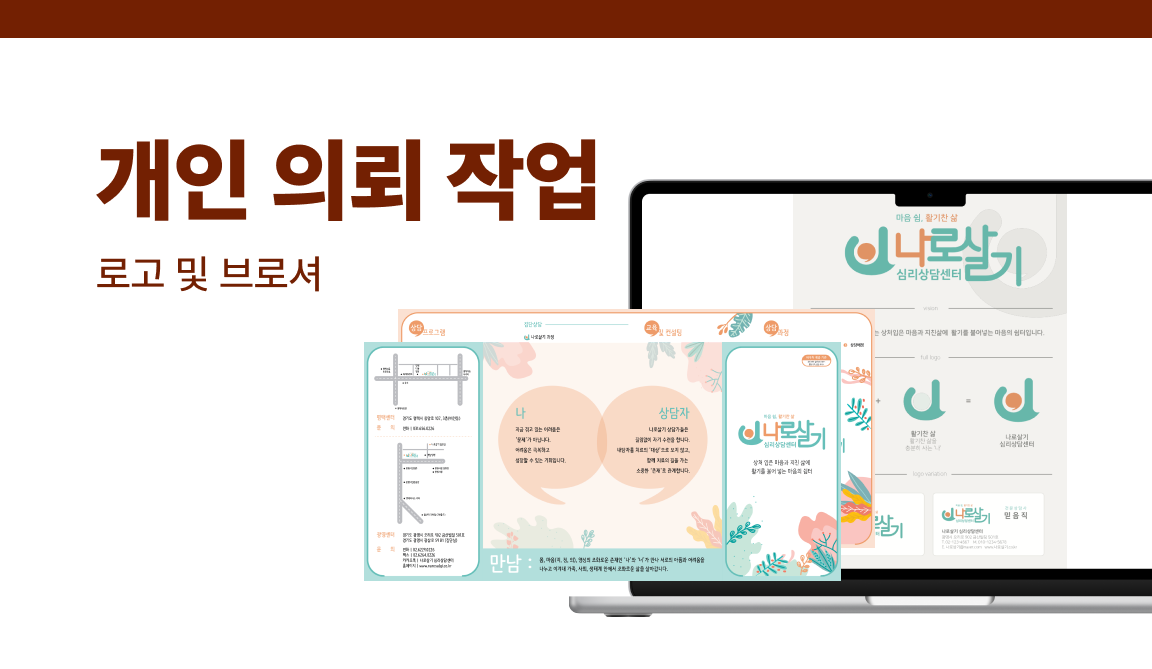
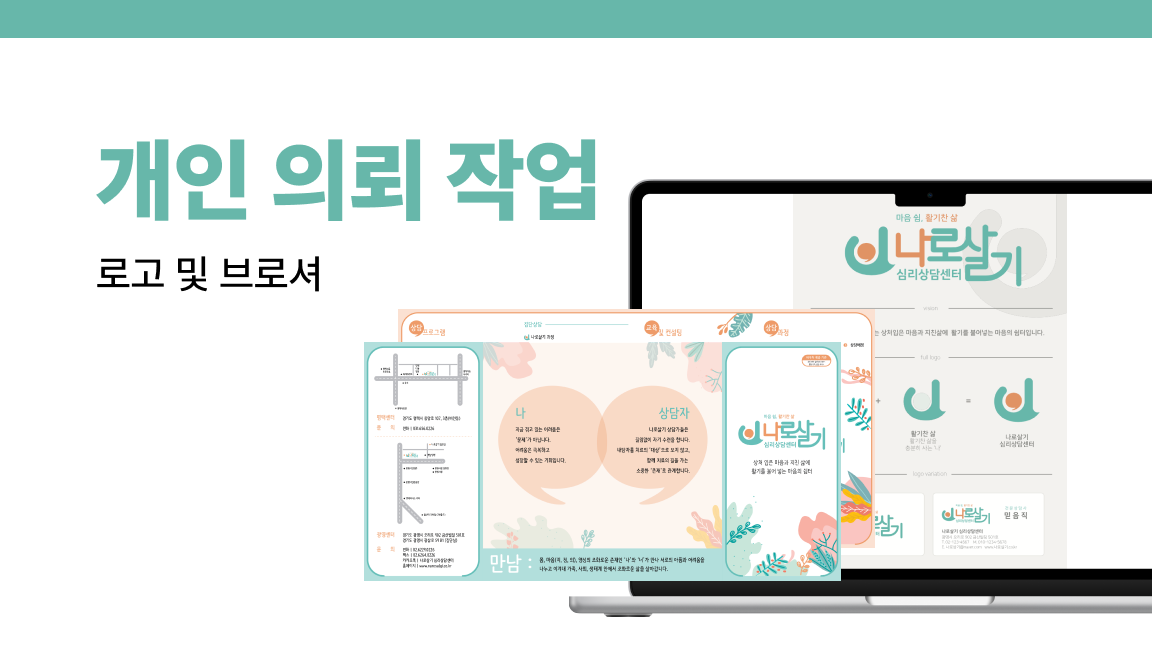
Initial commit

Changed region(s): [[0.0, 0.0, 1.0, 0.0598], [0.0625, 0.2093, 0.5312, 0.3288], [0.0625, 0.3886, 0.2812, 0.4484]]

diff --git a/css/style.css b/css/style.css
@@ -5,40 +5,40 @@
 :root {
   /* 새로운 고급 컬러 팔레트 */
   --ink: #E9EDF2;           /* 메인 텍스트 - 가장 밝은 색 */
-  --muted: #97A6A2;         /* 서브 텍스트 - 중간 밝은 색 */
-  --bg: #401F0D;            /* 메인 배경 - 어두운 색 */
+  --muted: #231e20;         /* 서브 텍스트 - 중간 밝은 색 */
+  --bg: #107243;            /* 메인 배경 - 어두운 색 */
   --card: #59574F;          /* 카드 배경 - 중간 색 */
   --round: 18px;
   
   /* 헤더 & 보더 */
-  --header: rgba(64, 31, 13, 0.9);
+  --header: rgba(255, 255, 255, 0.3);
   --border: rgba(151, 166, 162, 0.2);
   
   /* 액센트 & 포인트 컬러 */
-  --accent: #401F0D;        /* 메인 액센트 - 가장 어두운 색 */
-  --accent1: #401F0D;
-  --accent2: #401F0D;
-  --primary-color: #401F0D;
-  --primary-color-full: #401F0D;
+  --accent: #107243;        /* 메인 액센트 - 가장 어두운 색 */
+  --accent1: #107243;
+  --accent2: #107243;
+  --primary-color: #107243;
+  --primary-color-full: #107243;
   
   /* 포인트 컬러 - 기존 컬러 팔레트 내에서 변형 */
-  --accent3: #97A6A2;
+  --accent3: #231e20;
   --accent4: #59574F;
-  --point-color1: #97A6A2;
+  --point-color1: #231e20;
   --point-color2: #E9EDF2;
   --point-color3: #59574F;
-  --point-color4: #401F0D;
+  --point-color4: #107243;
   
   /* 배경 그라데이션용 컬러 */
-  --bg-Cdeep-color1: #401F0D;
+  --bg-Cdeep-color1: #107243;
   --bg-Cdeep-color2: #59574F;
-  --bg-Cdeep-color3: #97A6A2;
+  --bg-Cdeep-color3: #231e20;
   --bg-Cdeep-color4: #E9EDF2;
   
   /* 메인 & 서브 컬러 */
   --main-color: #59574F;
-  --main-color-deep: #401F0D;
-  --sub-color1: #97A6A2;
+  --main-color-deep: #107243;
+  --sub-color1: #231e20;
   --sub-color2: #E9EDF2;
   
   /* 투명도 컬러 */
@@ -124,7 +124,8 @@ section {
   left: 0;
   width: 100%;
   z-index: 9999;
-  backdrop-filter: saturate(120%) blur(10px);
+  backdrop-filter: saturate(140%) blur(16px);
+  -webkit-backdrop-filter: saturate(140%) blur(16px);
   background: var(--header);
   /* border-bottom: 1px solid var(--border); */
   transform: translateY(-100%);
@@ -157,19 +158,23 @@ h1.brand_logo img {
 }
 
 .primary_nav a {
-  opacity: .85;
+  color: var(--bg);
+  opacity: .6;
   padding: 6px 10px;
   cursor: pointer;
   display: flex;
+  transition: all 0.3s ease;
 }
 
 .primary_nav a:hover {
-  color: var(--ink);
+  opacity: .85;
+  color: var(--bg);
 }
 
 .primary_nav a.is_active {
-  background: var(--ink);
-  color: var(--bg);
+  background: var(--bg);
+  color: var(--ink);
+  opacity: 1;
   font-weight: 600;
   border-radius: 50px;
   padding-inline: 20px;
@@ -250,12 +255,13 @@ h1.brand_logo img {
   margin: 0 0 12px;
   opacity: 0;
   transform: translateY(20px);
-  letter-spacing: -.02em
+  letter-spacing: -.02em;
+  text-shadow: 0 0 4px rgba(0, 0, 0, 0.1);
 }
 
 .hero_sub {
   margin: 0 0 24px;
-  color: var(--muted);
+  color: var(--ink);
   opacity: 0;
   transform: translateY(16px)
 }
@@ -289,16 +295,14 @@ h2 {
   display: flex;
   justify-content: space-between;
   align-items: center;
-  background: linear-gradient(to bottom, 
-    #E9EDF2, 
-    rgba(136, 140, 135, 0.7));
+  background: #eeeeee;
   position: relative;
   flex-direction: column;
   padding-block: 10vh;
 }
 
 .marquee_section h2 {
-  color: var(--ink);
+  color: var(--muted);
   position: relative;
   z-index: 1;
 }
@@ -332,7 +336,7 @@ h2 {
 }
 
 .marquee_item {
-  color: var(--sub-color1);
+  color: #c4bebe;
   opacity: .9;
   font-weight: 200;
 }
@@ -362,7 +366,7 @@ h2 {
   flex-direction: column;
   justify-content: center;
   cursor: pointer;
-  background: #EEE;
+  background: #fff;
   box-shadow: 0 4px 20px rgba(0, 0, 0, 0.15);
   overflow: hidden;
   /* 반사광이 밖으로 안 새게 */
@@ -384,7 +388,7 @@ h2 {
 }
 
 .feature_card:nth-child(1) {
-  background: #EEE;
+  background: #fff;
 }
 
 .feature_card:nth-child(1)::before {
@@ -392,7 +396,7 @@ h2 {
 }
 
 .feature_card:nth-child(2) {
-  background: #EEE;
+  background: #fff;
 }
 
 .feature_card:nth-child(2)::before {
@@ -400,7 +404,7 @@ h2 {
 }
 
 .feature_card:nth-child(3) {
-  background: #EEE;
+  background: #fff;
 }
 
 .feature_card:nth-child(3)::before {
@@ -500,7 +504,7 @@ h2 {
 }
 
 .info_section .card {
-  background: linear-gradient(135deg, #E9EDF2, #97A6A2);
+  background: #fff;
   border-radius: 24px;
   padding: 48px 40px;
   box-shadow: 0 8px 32px rgba(0, 0, 0, 0.12);
@@ -560,7 +564,7 @@ h2 {
 }
 
 .info_section .card h4 {
-  color: #401F0D;
+  color: #107243;
   font-size: 1.75rem;
   font-weight: 700;
   margin: 0;
@@ -594,7 +598,7 @@ h2 {
   align-items: center;
   padding: 16px 32px;
   background: rgba(64, 31, 13, 0.1);
-  color: #401F0D;
+  color: #107243;
   text-decoration: none;
   border-radius: 28px;
   font-size: 1.05rem;
@@ -604,7 +608,7 @@ h2 {
 }
 
 .info_section .link-go a:hover {
-  background: #401F0D;
+  background: #107243;
   color: #E9EDF2;
   transform: translateY(-2px);
   box-shadow: 0 4px 12px rgba(64, 31, 13, 0.3);
@@ -624,8 +628,10 @@ h2 {
 
 /* ===== Pin + Floating Photos ===== */
 .pin_scene {
-  height: 150vh;
-  overflow: hidden
+  height: 120vh;
+  overflow: hidden;
+  background: #eee;
+  padding: 0;
 }
 
 .pin_layer {
@@ -633,17 +639,21 @@ h2 {
   width: 100%;
   height: 100%;
   overflow: hidden;
+  background: #eee;
 }
 
 .pin_bg {
   position: absolute;
-  inset: -2px;
-  /* 1~2px 확장해서 경계 숨김 */
+  inset: 0;
+  width: 100%;
+  height: 100%;
   background-size: cover;
   background-position: center;
+  background-repeat: no-repeat;
   will-change: transform, filter;
   transform: translateZ(0);
-  /* 티어링 줄이기 */
+  filter: blur(8px);
+  opacity: 0.5;
 }
 
 .pin_overlay {
@@ -672,14 +682,14 @@ h2 {
 
 .pin_copy p {
   margin: 0;
-  color: var(--muted)
+  color: #fff;
 }
 
 /* 중앙에 스택 스테이지 만들기 */
 .float_wrap {
   position: absolute;
   inset: 0;
-  top: 20%;
+  top: 35%;
   display: grid;
   place-items: center;
   pointer-events: none;
@@ -799,7 +809,7 @@ h2 {
   position: relative;
   height: 100vh;
   overflow: hidden;
-  background: var(--card);
+  background: #eee;
 }
 
 .track {
@@ -852,14 +862,17 @@ h2 {
   font-size: 1.5rem;
   font-weight: 600;
   opacity: 0;
-  transition: opacity 0.3s ease;
+  transition: all 0.3s ease;
   z-index: 2;
   text-align: center;
   white-space: nowrap;
+  padding: 16px 32px;
+  border-radius: 50px;
+  border: 1px solid #fff;
 }
 
 .h_item:hover::before {
-  background: rgba(0, 0, 0, 0.75);
+  background: rgba(0, 0, 0, 0.85);
 }
 
 .h_item:hover::after {
@@ -893,7 +906,7 @@ h2 {
 /* ===== Stats (counters) ===== */
 .stats_section {
   text-align: center;
-  background: var(--card);
+  background: #107243;
 }
 
 .stats_grid {
@@ -920,7 +933,7 @@ h2 {
 /* ===== CTA ===== */
 .cta_section {
   text-align: center;
-  background: var(--card);
+  background: #107243;
 }
 
 .cta_section h2 {
@@ -939,8 +952,8 @@ h2 {
   align-items: center;
   padding: 14px 20px;
   border-radius: 999px;
-  background: var(--accent);
-  color: var(--ink);
+  background: #fff;
+  color: #107243;
   font-weight: 800;
   transform: translateY(20px);
   opacity: 0
@@ -949,6 +962,11 @@ h2 {
 .magnet_zone {
   display: inline-block;
   padding-bottom: 100px;
+  transition: filter 0.3s ease;
+}
+
+.magnet_zone:hover {
+  filter: saturate(1.5) brightness(1.1);
 }
 
 @media(max-width:1024px) {

diff --git a/index.html b/index.html
@@ -118,28 +118,28 @@
 
             <div class="projects">
                 <div class="card">
-                    <h4>🔍 Project | Studio Dragon Redesign</h4>
+                    <h4>Project | Studio Dragon Redesign</h4>
                     <p>스튜디오 드래곤 팀 프로젝트에서 디자인 팀장을 맡아 스타일 가이드를 총괄하고, 메인 페이지 디자인을 담당했습니다.</p>
                     <div class="link-go">
-                        <a href="#" target="_blank">랜딩 페이지</a>
-                        <a href="https://www.figma.com/deck/E1m9UD9QFX8vzMYbFf6CDW/-%ED%8C%80%ED%94%8C1-2%EC%A1%B0--%EA%B2%B0%EA%B3%BC%EB%B3%B4%EA%B3%A0%EC%84%9C_studiodragon-%EC%8A%A4%ED%8A%9C%EB%94%94%EC%98%A4%EB%93%9C%EB%9E%98%EA%B3%A4---%EB%B3%B5%EC%82%AC-?node-id=1-42&viewport=-164%2C-159%2C0.75&t=WzeZezoGppLXpgtR-1&scaling=min-zoom&content-scaling=fixed&page-id=0%3A1" target="_blank">프로젝트 기획서</a>
+                        <!-- <a href="#" target="_blank">랜딩 페이지</a> -->
+                        <a href="https://www.figma.com/deck/E1m9UD9QFX8vzMYbFf6CDW/-%ED%8C%80%ED%94%8C1-2%EC%A1%B0--%EA%B2%B0%EA%B3%BC%EB%B3%B4%EA%B3%A0%EC%84%9C_studiodragon-%EC%8A%A4%ED%8A%9C%EB%94%94%EC%98%A4%EB%93%9C%EB%9E%98%EA%B3%A4---%EB%B3%B5%EC%82%AC-?node-id=1-42&viewport=-164%2C-159%2C0.75&t=EiuXnwrzWgs6hEGc-1&scaling=min-zoom&content-scaling=fixed&page-id=0%3A1" target="_blank">프로젝트 기획서</a>
                         <a href="https://root-ryu.github.io/StudioDragon/" target="_blank">프로젝트 링크</a>
                     </div>
                 </div>
                 <div class="card">
-                    <h4>🔍 Project | KT Membership Redesign</h4>
+                    <h4>Project | KT Membership Redesign</h4>
                     <p>KT 멤버십 리뉴얼 프로젝트에서 사용자 흐름 재정립과 메인 구조 개선을 중심으로 브랜딩, 기획, UX/UI 디자인을 하였습니다.</p>
                     <div class="link-go">
-                        <a href="#" target="_blank">랜딩 페이지</a>
-                        <a href="#" target="_blank">프로젝트 기획서</a>
-                        <a href="#" target="_blank">프로젝트 링크</a>
+                        <!-- <a href="#" target="_blank">랜딩 페이지</a> -->
+                        <!-- <a href="#" target="_blank">프로젝트 기획서</a> -->
+                        <a href="https://www.figma.com/proto/nuJLQBphApPbmWFM4CG9Oh/%EB%B0%B1%EC%8A%B9%EC%A3%BC?page-id=507%3A2&node-id=509-2&viewport=179%2C96%2C0.52&t=Namz2QZ3bv7tUTey-1&scaling=min-zoom&content-scaling=fixed&starting-point-node-id=509%3A2" target="_blank">프로젝트 링크</a>
                     </div>
                 </div>
                 <div class="card">
-                    <h4>🔍 Project | Tous Les Jours Redesign</h4>
+                    <h4>Project | Tous Les Jours Redesign</h4>
                     <p>뚜레쥬르 리뉴얼은 개인 프로젝트로, 전체 디자인과 프론트엔드 코딩과 UX/UI 디자인을 작업입니다.</p>
                     <div class="link-go">
-                        <a href="#" target="_blank">랜딩 페이지</a>
+                        <!-- <a href="#" target="_blank">랜딩 페이지</a> -->
                         <!-- <a href="#" target="_blank">프로젝트 기획서</a> -->
                         <a href="https://bericana.github.io/touslesjours/" target="_blank">프로젝트 링크</a>
                     </div>
